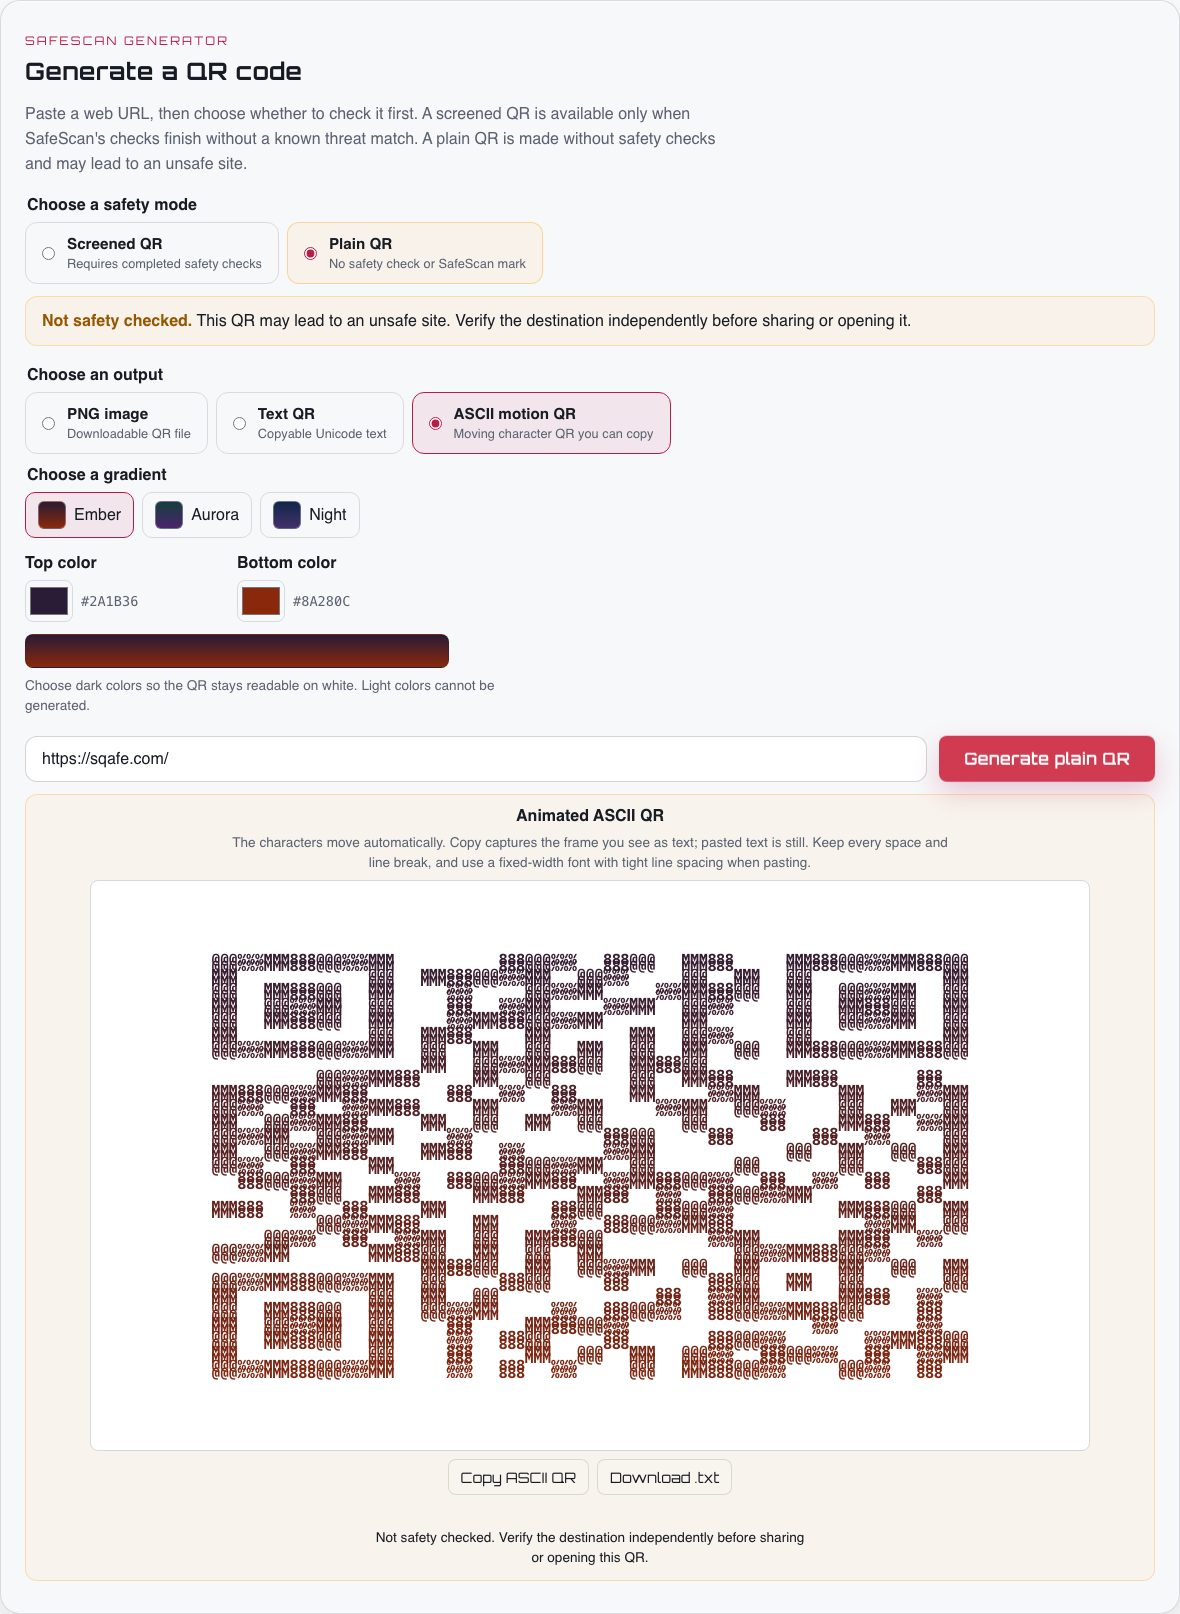
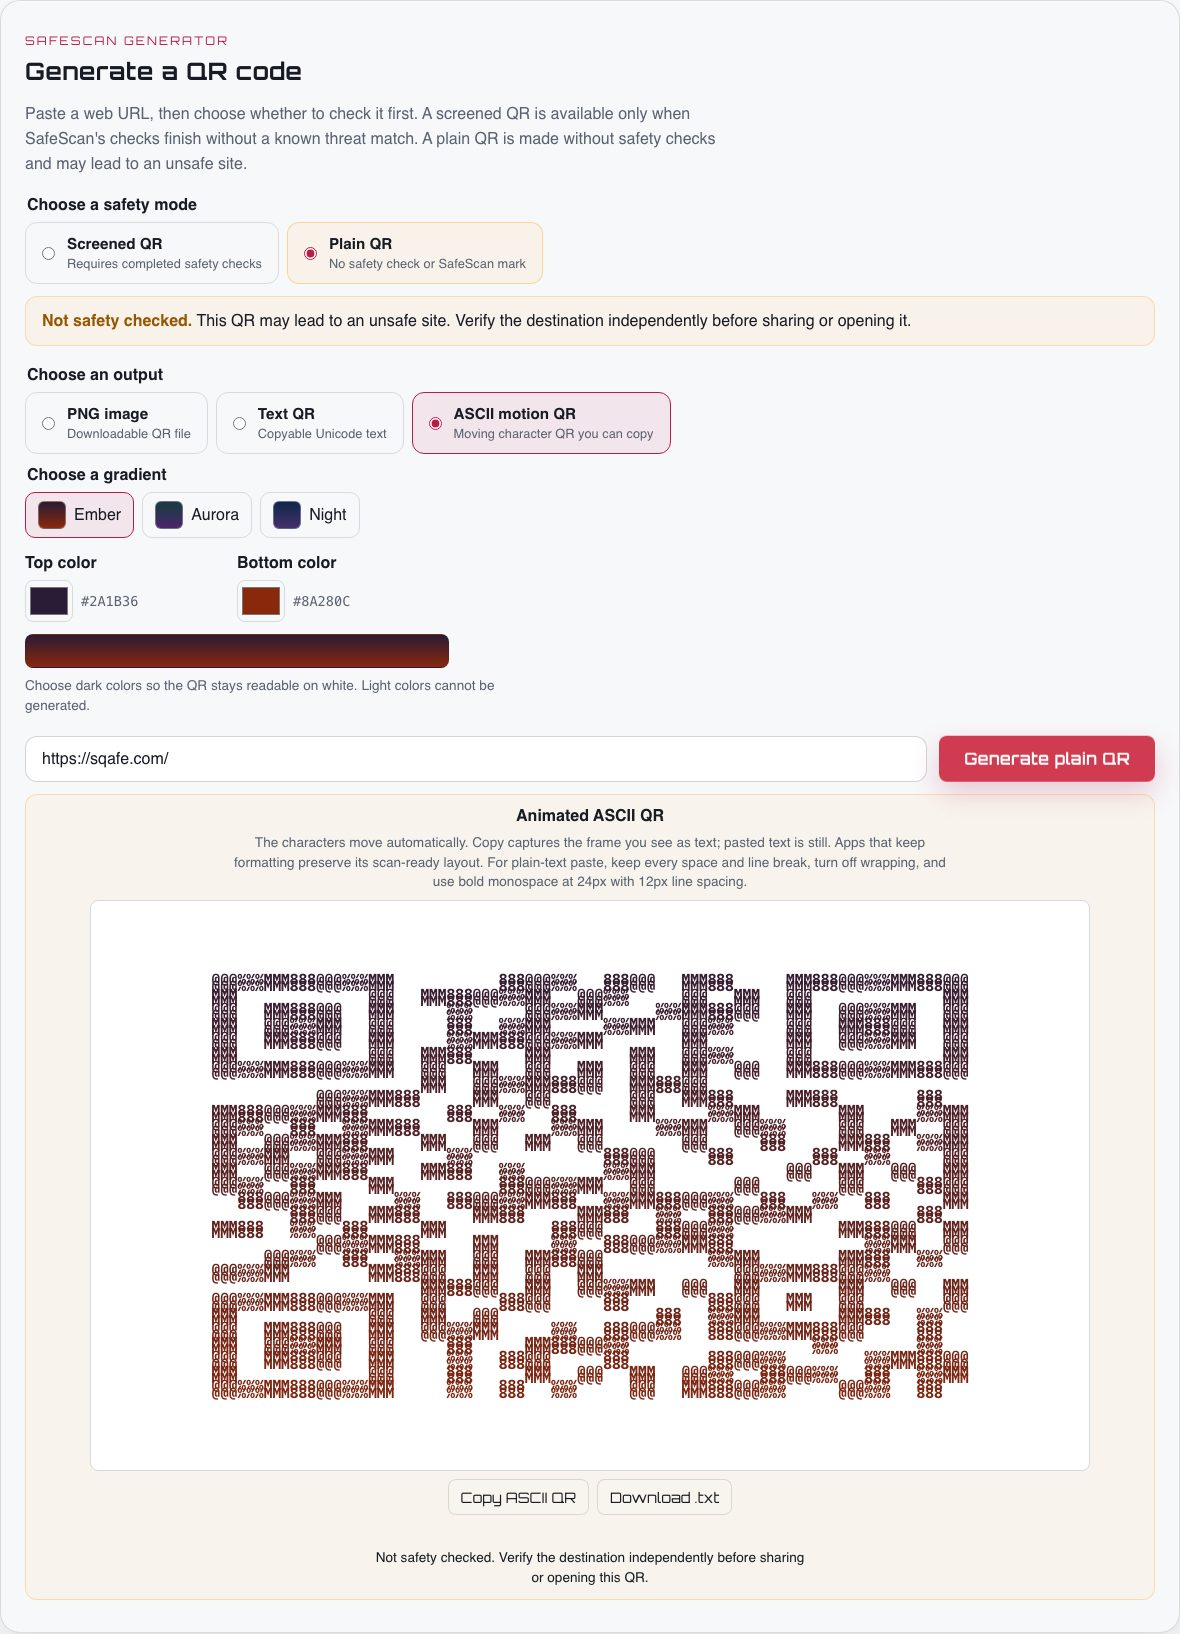
Clarify ASCII paste geometry and preserve rich text styling

diff --git a/static/app-generate-qr.js b/static/app-generate-qr.js
@@ -271,7 +271,7 @@
   copyButton.addEventListener("click", () => copyCurrentText(actionStatus));
   const richAsciiFrame = (frame) => {
     const preview = document.createElement("pre");
-    preview.style.cssText = "display:inline-block;width:max-content;max-width:none;overflow:visible;white-space:pre;font-family:Menlo,monospace;font-size:24px;line-height:12px;margin:0;background:#fff;color:#05080d";
+    preview.style.cssText = "display:inline-block;width:max-content;max-width:none;overflow:visible;white-space:pre;font-family:Menlo,monospace;font-size:24px;font-weight:700;line-height:12px;letter-spacing:0;font-variant-ligatures:none;margin:0;background:#fff;color:#05080d";
     preview.textContent = frame;
     return preview.outerHTML;
   };
@@ -288,11 +288,11 @@
       } else {
         await navigator.clipboard.writeText(snapshot);
       }
-      motionTextActionStatus.textContent = "ASCII QR frame copied. Paste it with its spaces and line breaks intact.";
+      motionTextActionStatus.textContent = "ASCII QR frame copied. Apps that keep formatting preserve its scan-ready spacing.";
     } catch (_err) {
       try {
         await navigator.clipboard.writeText(snapshot);
-        motionTextActionStatus.textContent = "ASCII QR frame copied as plain text. Use a fixed-width font when pasting.";
+        motionTextActionStatus.textContent = "ASCII QR frame copied as plain text. Use bold monospace at 24px with 12px line spacing and no wrapping.";
       } catch (_fallbackError) {
         motionTextActionStatus.textContent = "Could not copy automatically. Use Download .txt instead.";
       }

diff --git a/templates/generate_qr.html b/templates/generate_qr.html
@@ -83,7 +83,7 @@
         <div id="generatedQrWrap" class="generated-qr-wrap hidden" aria-live="polite">
           <section id="generatedMotionTextWrap" class="generated-motion-text hidden" aria-labelledby="generatedMotionTextHeading">
             <h3 id="generatedMotionTextHeading">Animated ASCII QR</h3>
-            <p>The characters move automatically. Copy captures the frame you see as text; pasted text is still. Keep every space and line break, and use a fixed-width font with tight line spacing when pasting.</p>
+            <p>The characters move automatically. Copy captures the frame you see as text; pasted text is still. Apps that keep formatting preserve its scan-ready layout. For plain-text paste, keep every space and line break, turn off wrapping, and use bold monospace at 24px with 12px line spacing.</p>
             <div class="generated-ascii-paper" id="generatedMotionTextPaper">
               <div id="generatedMotionTextSurface" class="generated-motion-text-surface">
                 <pre id="generatedMotionTextArt" aria-hidden="true"></pre>

diff --git a/tests/test_qr_generator_motion_copy_browser.py b/tests/test_qr_generator_motion_copy_browser.py
@@ -198,6 +198,7 @@ def test_reduced_motion_copy_paste_and_download_preserve_ascii(browser_site, mot
         assert clipboard["htmlText"] == captured
         assert "line-height: 12px" in clipboard["style"]
         assert "white-space: pre" in clipboard["style"]
+        assert "font-weight: 700" in clipboard["style"]
 
         page.evaluate("""() => {
           const textarea = document.createElement('textarea');

diff --git a/docs/design/screenshots/ascii-motion-dom/README.md b/docs/design/screenshots/ascii-motion-dom/README.md
@@ -1,6 +1,6 @@
 # ASCII motion QR as live text: visual check
 
-Before is `origin/main` at `1116e49`; after is the frontend change at `b8bc718` with the four-frame ASCII generator. Both pages ran on isolated local servers. The same mocked **Plain QR** response for `https://sqafe.com/` was used at each width and theme. No production request or screened URL check was made.
+Before is `origin/main` at `1116e49`; after is the current branch with the four-frame ASCII generator and copy instructions. Both pages ran on isolated local servers. The same mocked **Plain QR** response for `https://sqafe.com/` was used at each width and theme. No production request or screened URL check was made.
 
 | Theme | Width | Before | After |
 | --- | ---: | --- | --- |
@@ -11,6 +11,6 @@ Before is `origin/main` at `1116e49`; after is the frontend change at `b8bc718` 
 | Light | 768 | [before](before-light-768.jpg) | [after](after-light-768.jpg) |
 | Light | 1440 | [before](before-light-1440.jpg) | [after](after-light-1440.jpg) |
 
-The after panel shows the animated ASCII QR as actual `<pre>` text with the Ember gradient, Copy ASCII QR, and Download .txt. The old image preview and Play motion button are absent. The screenshots are still captures; `tests/test_qr_generator_motion_copy_browser.py` verifies the four distinct text frames play automatically, each frame decodes at 375 and 768 px, and copied text preserves its geometry through plain and rich paste.
+The after panel shows the animated ASCII QR as actual `<pre>` text with the Ember gradient, Copy ASCII QR, and Download .txt. The old image preview and Play motion button are absent. The screenshots are still captures; `tests/test_qr_generator_motion_copy_browser.py` verifies the four distinct text frames play automatically, each frame decodes at 375 and 768 px, and the copied characters stay exact in plain and rich paste. The rich paste retains the tested scan-ready styling; plain-text apps need the stated font and line spacing to scan.
 
 At every captured width, the document width equaled the viewport width; the output and controls remained within the panel. The 375 px view includes a small-size notice. [Layout metrics](metrics.json) include the natural unscaled text width and its scaled on-screen width. Reproduce with `python -m scripts.capture_ascii_motion_text_evidence --baseline /path/to/origin-main-worktree --output docs/design/screenshots/ascii-motion-dom`.
